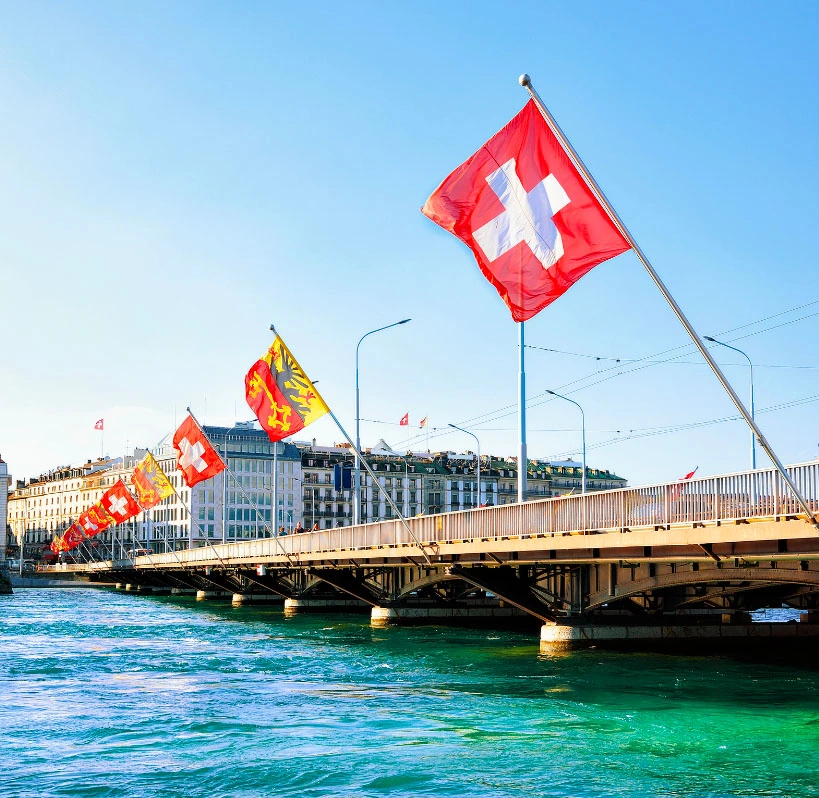
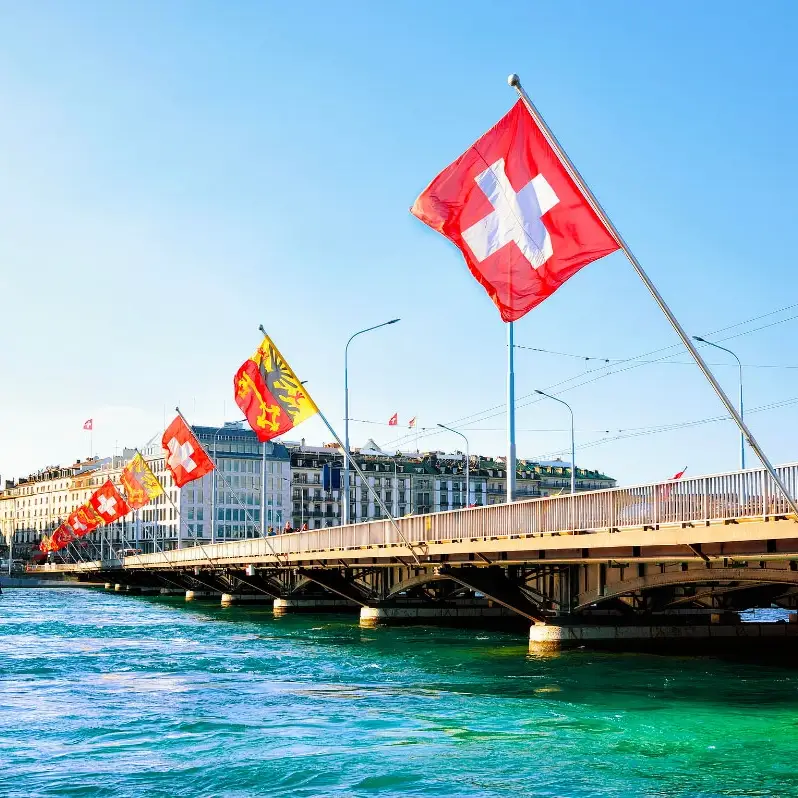
fix: opti images

diff --git a/src/Controller/HomeController.php b/src/Controller/HomeController.php
@@ -2,15 +2,26 @@
 
 namespace App\Controller;
 
+use App\Repository\PostsRepository;
 use Symfony\Bundle\FrameworkBundle\Controller\AbstractController;
 use Symfony\Component\HttpFoundation\Response;
 use Symfony\Component\Routing\Annotation\Route;
 
 class HomeController extends AbstractController
 {
+    public function __construct(
+        private readonly PostsRepository $postsRepository
+    )
+    {
+    }
+
     #[Route('/', name: 'app_home')]
     public function home(): Response
     {
-        return $this->render('home/index.html.twig', []);
+        $posts = $this->postsRepository->findLastThree();
+
+        return $this->render('home/index.html.twig', [
+            'posts' => $posts,
+        ]);
     }
 }
